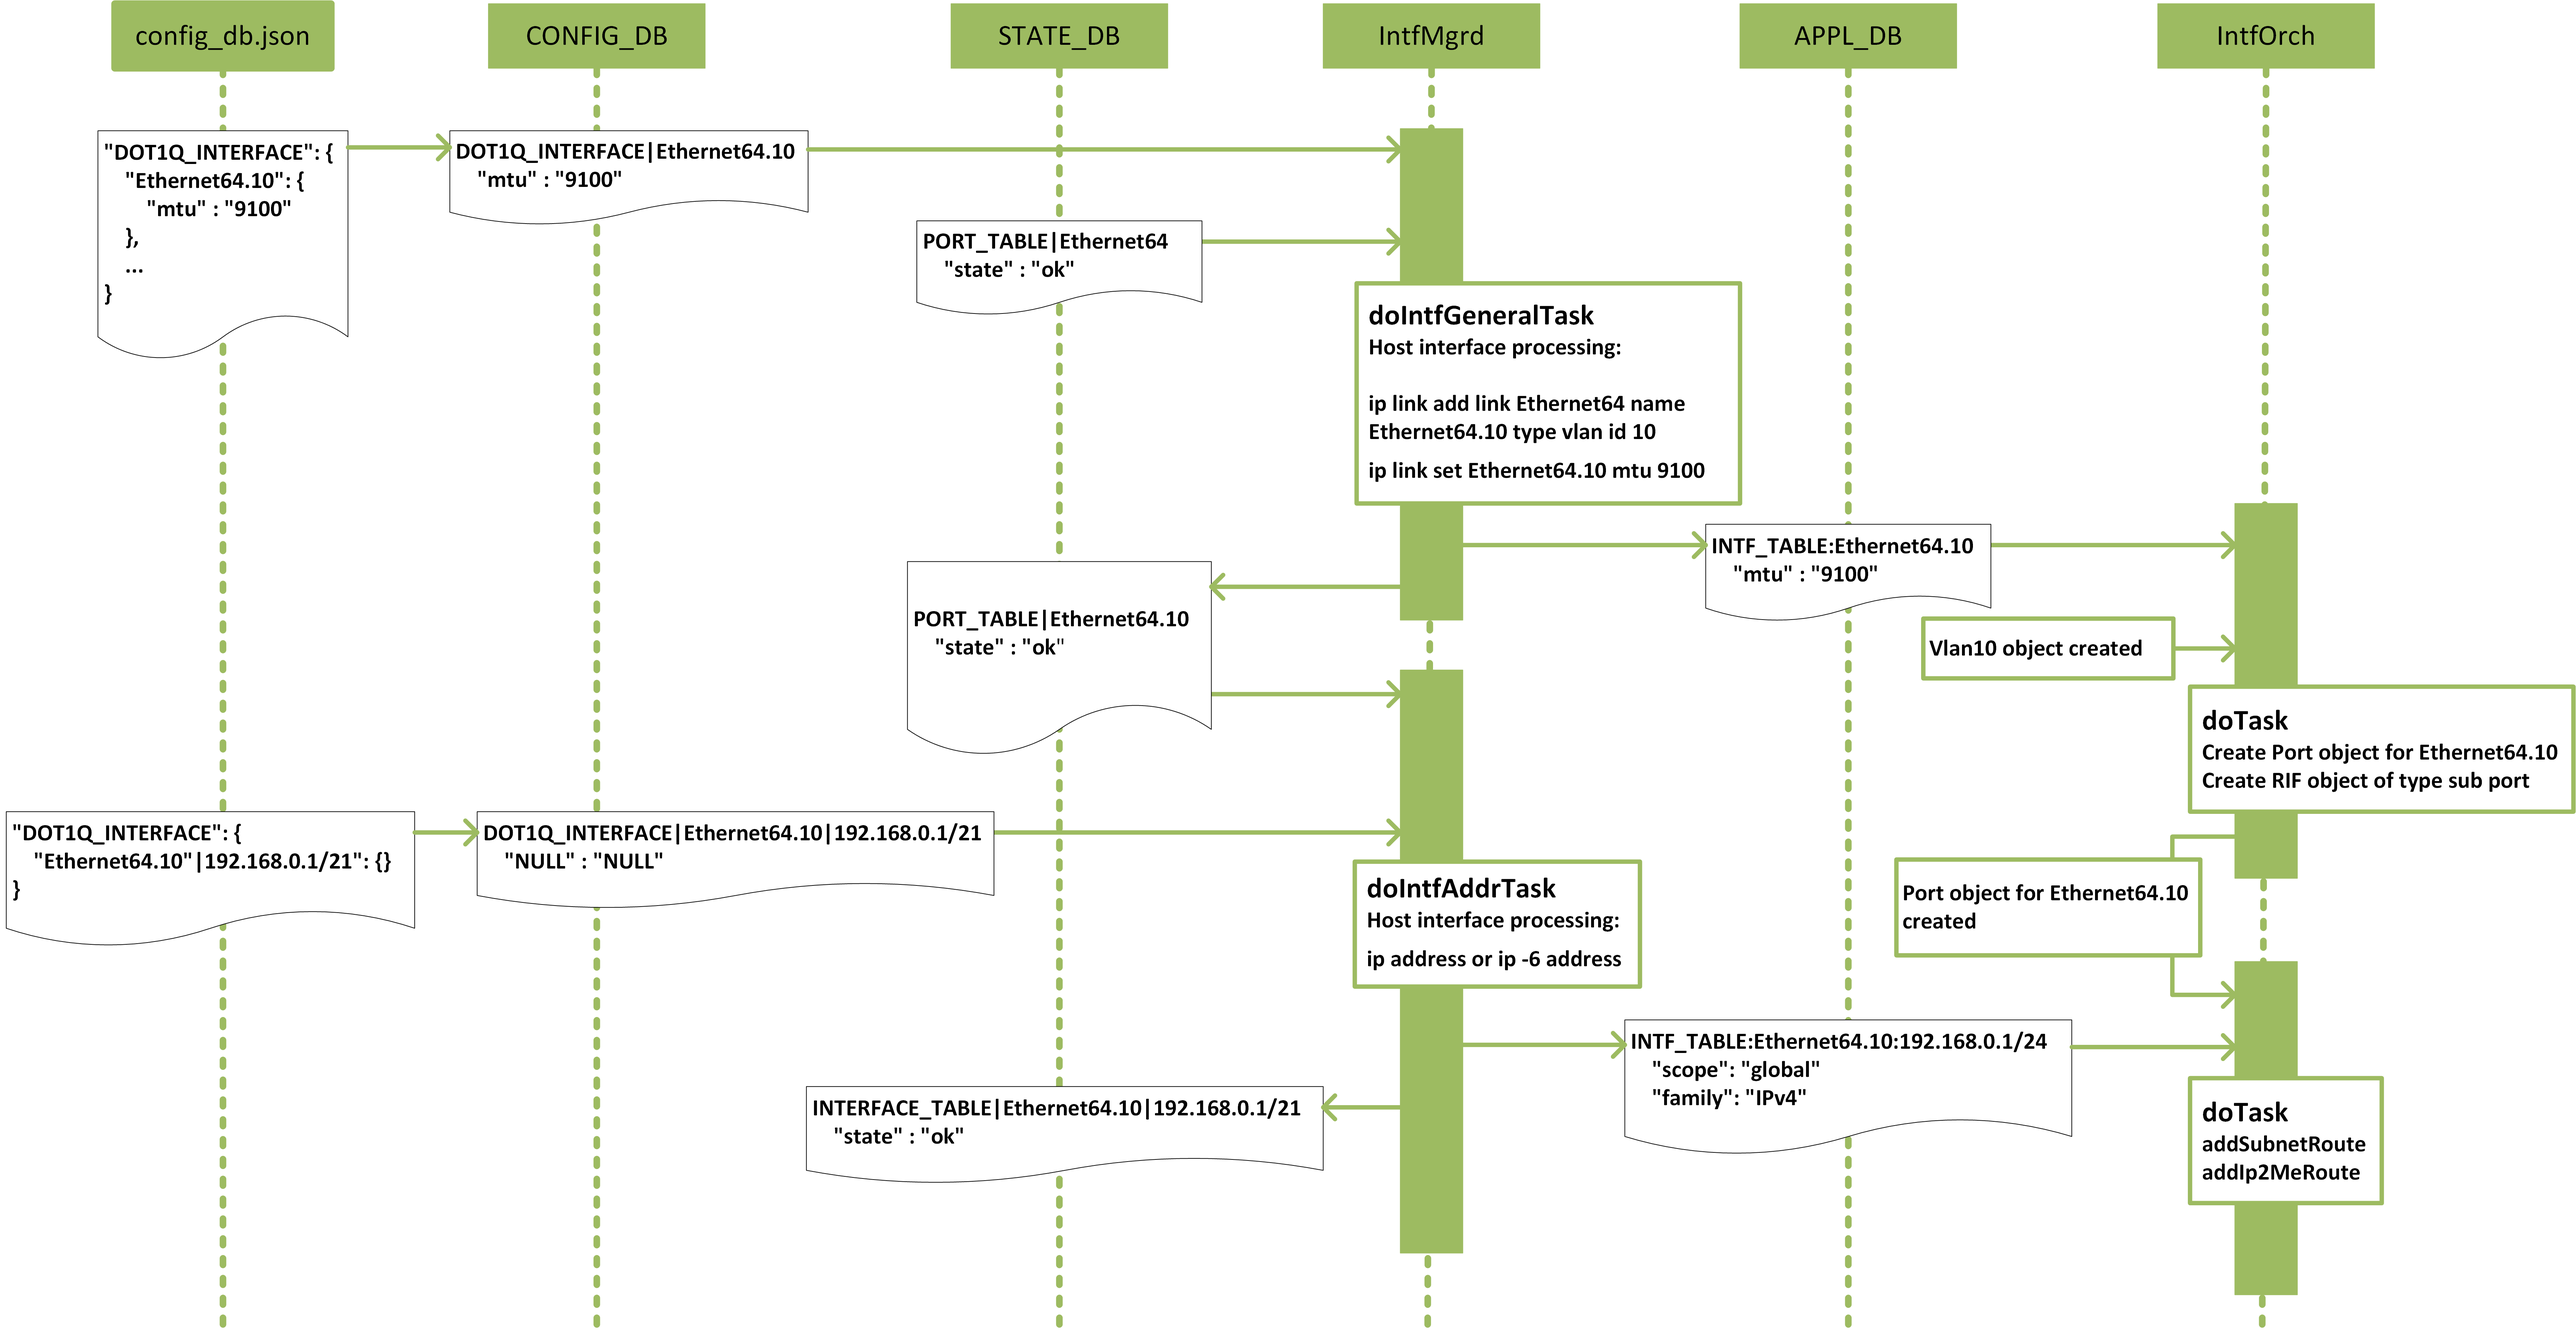
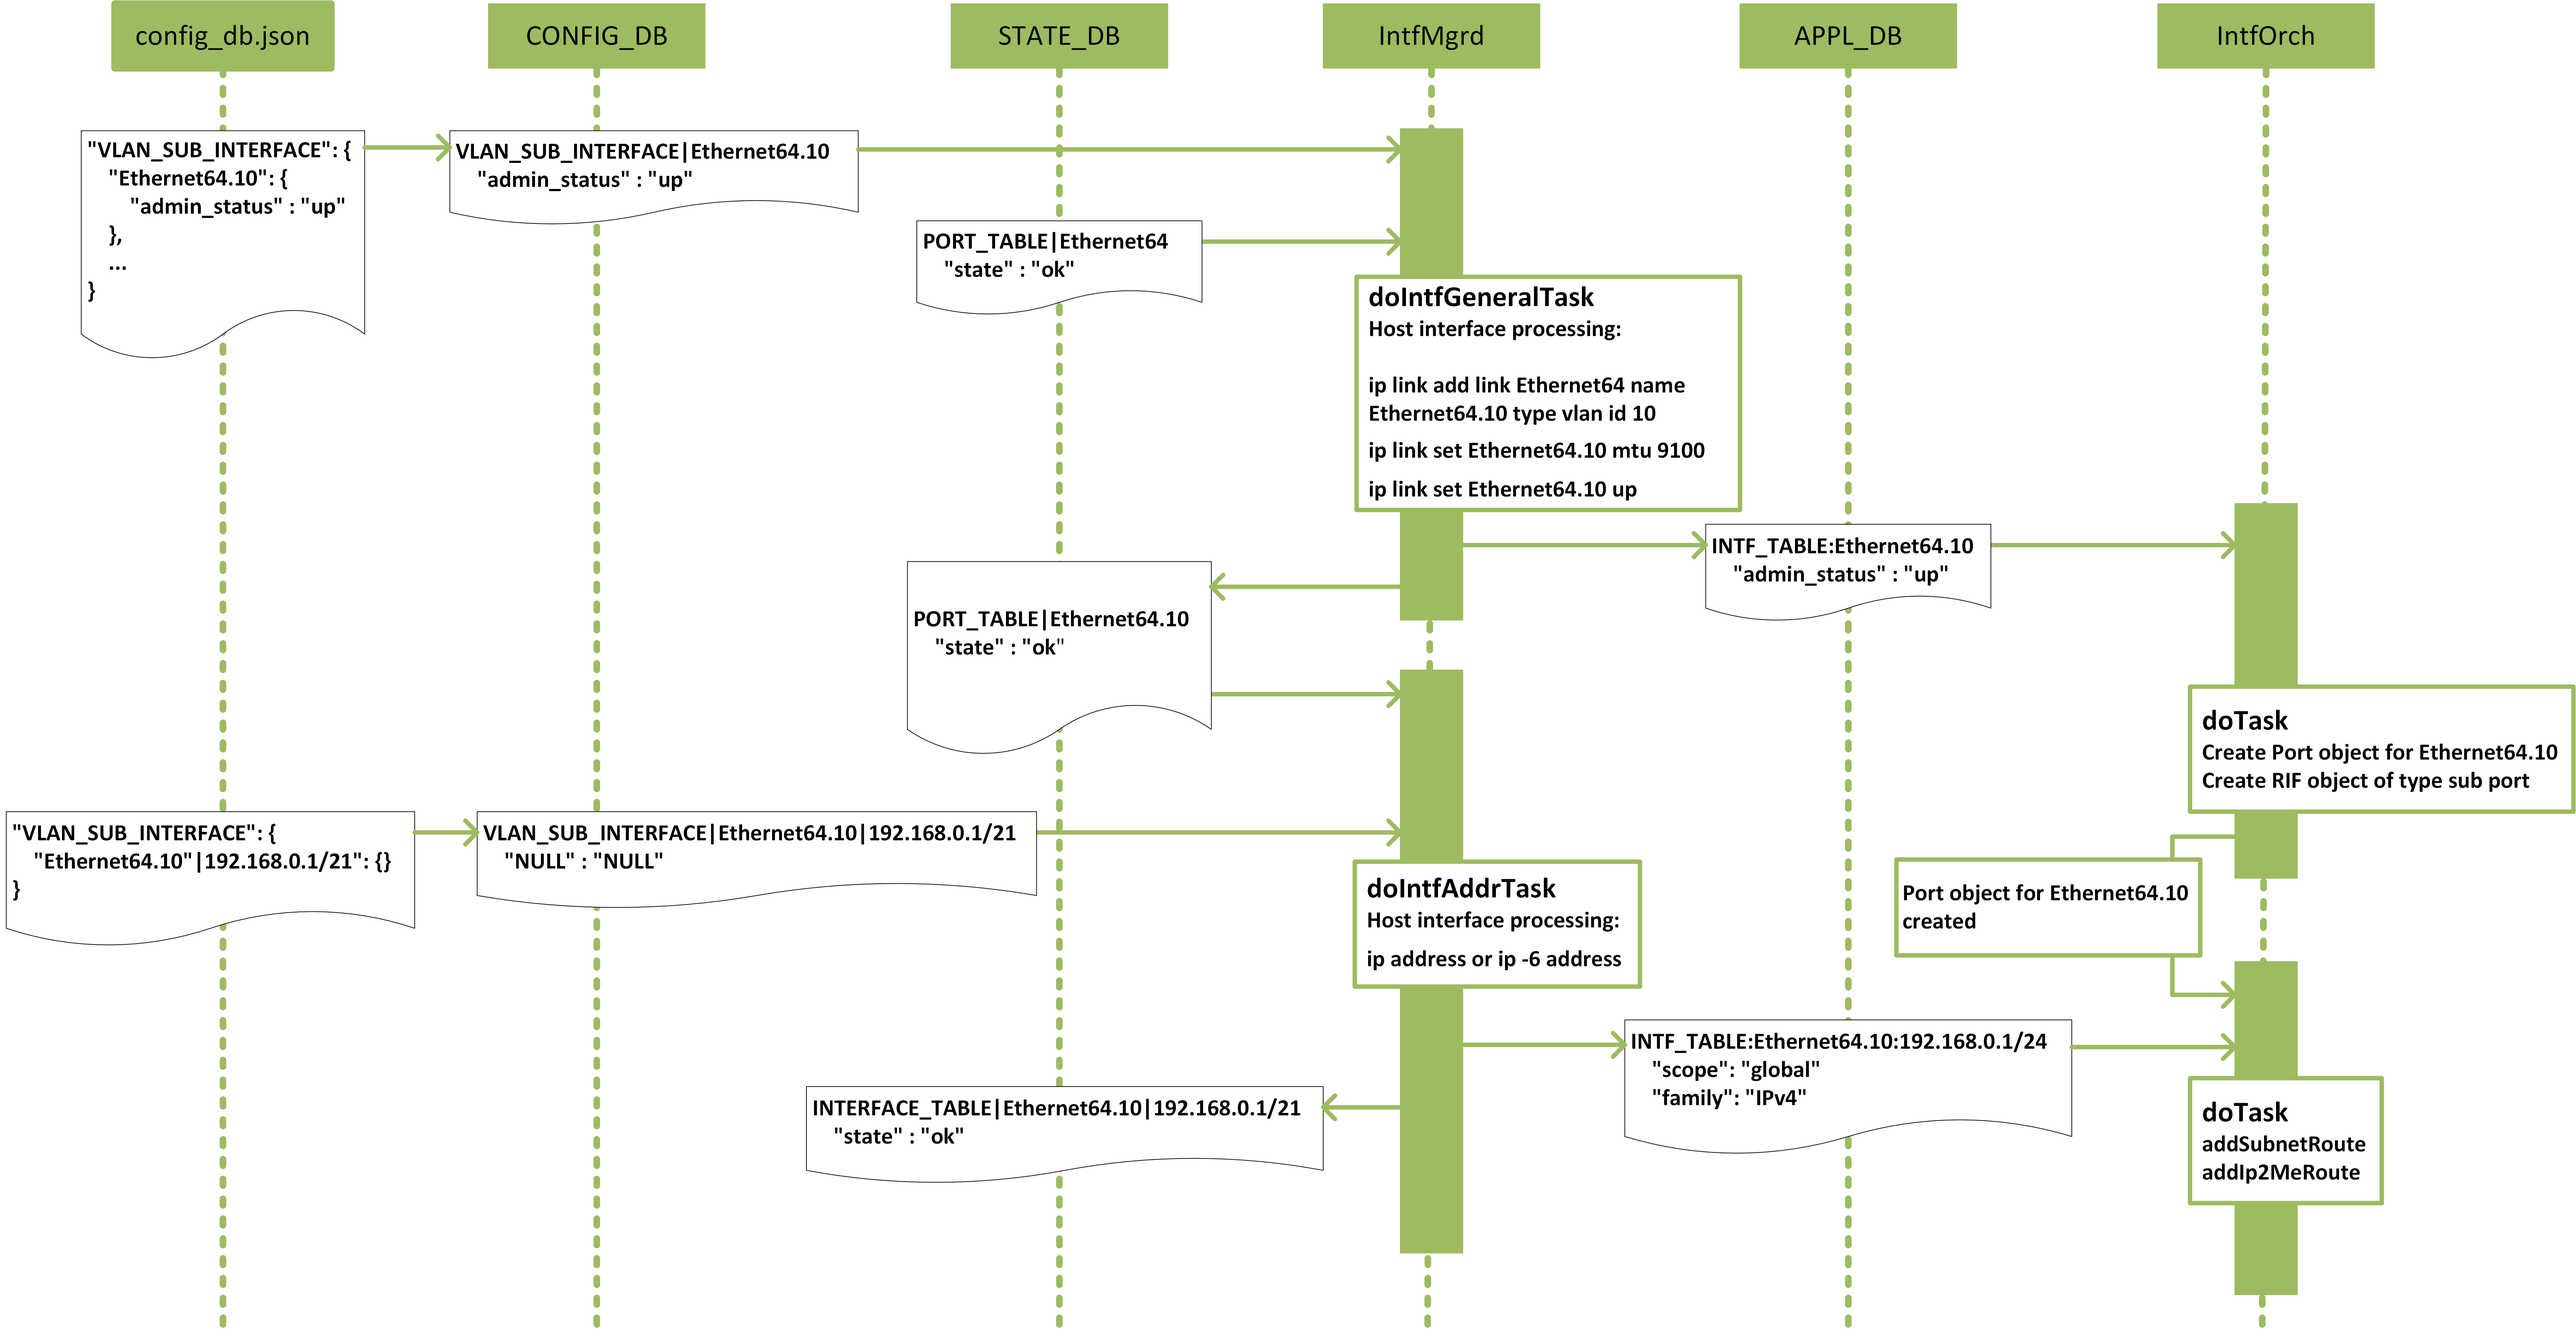
Set admin status of a sub port interface

diff --git a/doc/sonic-sub-port-intf-hld.md b/doc/sonic-sub-port-intf-hld.md
@@ -76,8 +76,8 @@ __Fig. 2: Sub port bridge port__
 # 1 Requirements
 
 Manage the life cycle of a sub port interface created on a physical port or a port channel and used as a router interface to a VRF:
-* Creation with the specified dot1q vlan id encapsulation and optional mtu
-* Runtime mtu change
+* Creation with the specified dot1q vlan id encapsulation
+* Runtime admin status change
 * Removal
 
 A sub port interface shall support the following features:
@@ -187,7 +187,11 @@ VLAN_SUB_INTERFACE|Ethernet64.10|fc00::/7
 ## 2.2 APPL_DB
 ```
 INTF_TABLE:{{ port_name }}.{{ vlan_id }}
-    "mtu" : "{{ mtu_size }}"
+    "admin_status" : "{{ adminstatus }}"
+
+; field         = value
+admin_status    = up / down             ; admin status of the sub port interface
+
 
 INTF_TABLE:{{ port_name }}.{{ vlan_id }}:{{ ip_prefix }}
     "scope" : "{{ visibility_scope }}"
@@ -273,12 +277,16 @@ uint32_t sub_intf_attrs_count = 6;
 sai_status_t status = create_router_interface(&rif_id, switch_oid, sub_intf_attrs_count, sub_intf_attrs);
 ```
 
-### 2.4.2 Set a sub port interface mtu
+### 2.4.2 Set a sub port interface admin status
 ```
 sai_attribute_t sub_intf_attr;
-sub_intf_attr.id = SAI_ROUTER_INTERFACE_ATTR_MTU;
-sub_intf_attr.value.u32 = 9000;
 
+sub_intf_attr.id = SAI_ROUTER_INTERFACE_ATTR_ADMIN_V4_STATE;
+sub_intf_attr.value.booldata = false;
+sai_status_t status = set_router_interface_attribute(rif_id, &attr);
+
+sub_intf_attr.id = SAI_ROUTER_INTERFACE_ATTR_ADMIN_V6_STATE;
+sub_intf_attr.value.booldata = false;
 sai_status_t status = set_router_interface_attribute(rif_id, &attr);
 ```
 
@@ -293,7 +301,6 @@ sai_status_t status = remove_router_interface(rif_id);
 We use iproute2 package to manage host sub port interfaces.
 Specifically, we use `ip link add link <parent_port_name> name <subif_name> type vlan id <vlan_id>` to create a host sub port interface.
 This command implies the dependancy that a parent host interface must be created before the creation of a host sub port interface.
-At creation, a host sub port interface is always set to admin status up.
 
 Example:
 ```
@@ -330,7 +337,7 @@ Internally, a sub port interface is represented as a Port object to be perceived
 ![](https://github.com/wendani/SONiC/blob/sub_port_master/images/sub_interface_hld/sub_intf_creation_flow.png)
 
 ## 3.2 Sub port interface runtime admin status change
-![](https://github.com/wendani/SONiC/blob/sub_port_master/images/sub_interface_hld/sub_intf_set_mtu_flow.png)
+![](https://github.com/wendani/SONiC/blob/sub_port_master/images/sub_interface_hld/sub_intf_set_admin_status_flow.png)
 
 ## 3.3 Sub port interface removal
 ![](https://github.com/wendani/SONiC/blob/sub_port_master/images/sub_interface_hld/sub_intf_removal_flow.png)
@@ -440,12 +447,12 @@ Test shall cover the IP address being an IPv4 address or an IPv6 address.
 | Verify that a subnet route entry is created in ASIC_DB                                                 |
 | Verify that a ip2me route entry is created in ASIC_DB                                                  |
 
-## 6.2 Sub port interface mtu change
+## 6.2 Sub port interface admin status change
 | Test case description                                                                                  |
 |--------------------------------------------------------------------------------------------------------|
-| Verify that sub port interface mtu change is pushed to CONIFG_DB VLAN_SUB_INTERFACE table              |
-| Verify that sub port interface mtu change is synced to APPL_DB INTF_TABLE by Intfmgrd                  |
-| Verify that sub port router interface entry in ASIC_DB has the updated mtu value                       |
+| Verify that sub port interface admin status change is pushed to CONIFG_DB VLAN_SUB_INTERFACE table     |
+| Verify that sub port interface admin status change is synced to APPL_DB INTF_TABLE by Intfmgrd         |
+| Verify that sub port router interface entry in ASIC_DB has the updated admin status                    |
 
 ## 6.3 Sub port interface removal
 ### 6.3.1 Remove an IP address from a sub port interface
@@ -489,4 +496,5 @@ Even when the parent port is a physical port, sub port interface use cases, such
 
 # 9 References
 [1] SAI_Proposal_Bridge_port_v0.9.docx https://github.com/opencomputeproject/SAI/blob/master/doc/bridge/SAI_Proposal_Bridge_port_v0.9.docx
+
 [2] Remove the need to create an object id for vlan in creating a sub port router interface https://github.com/opencomputeproject/SAI/pull/998
